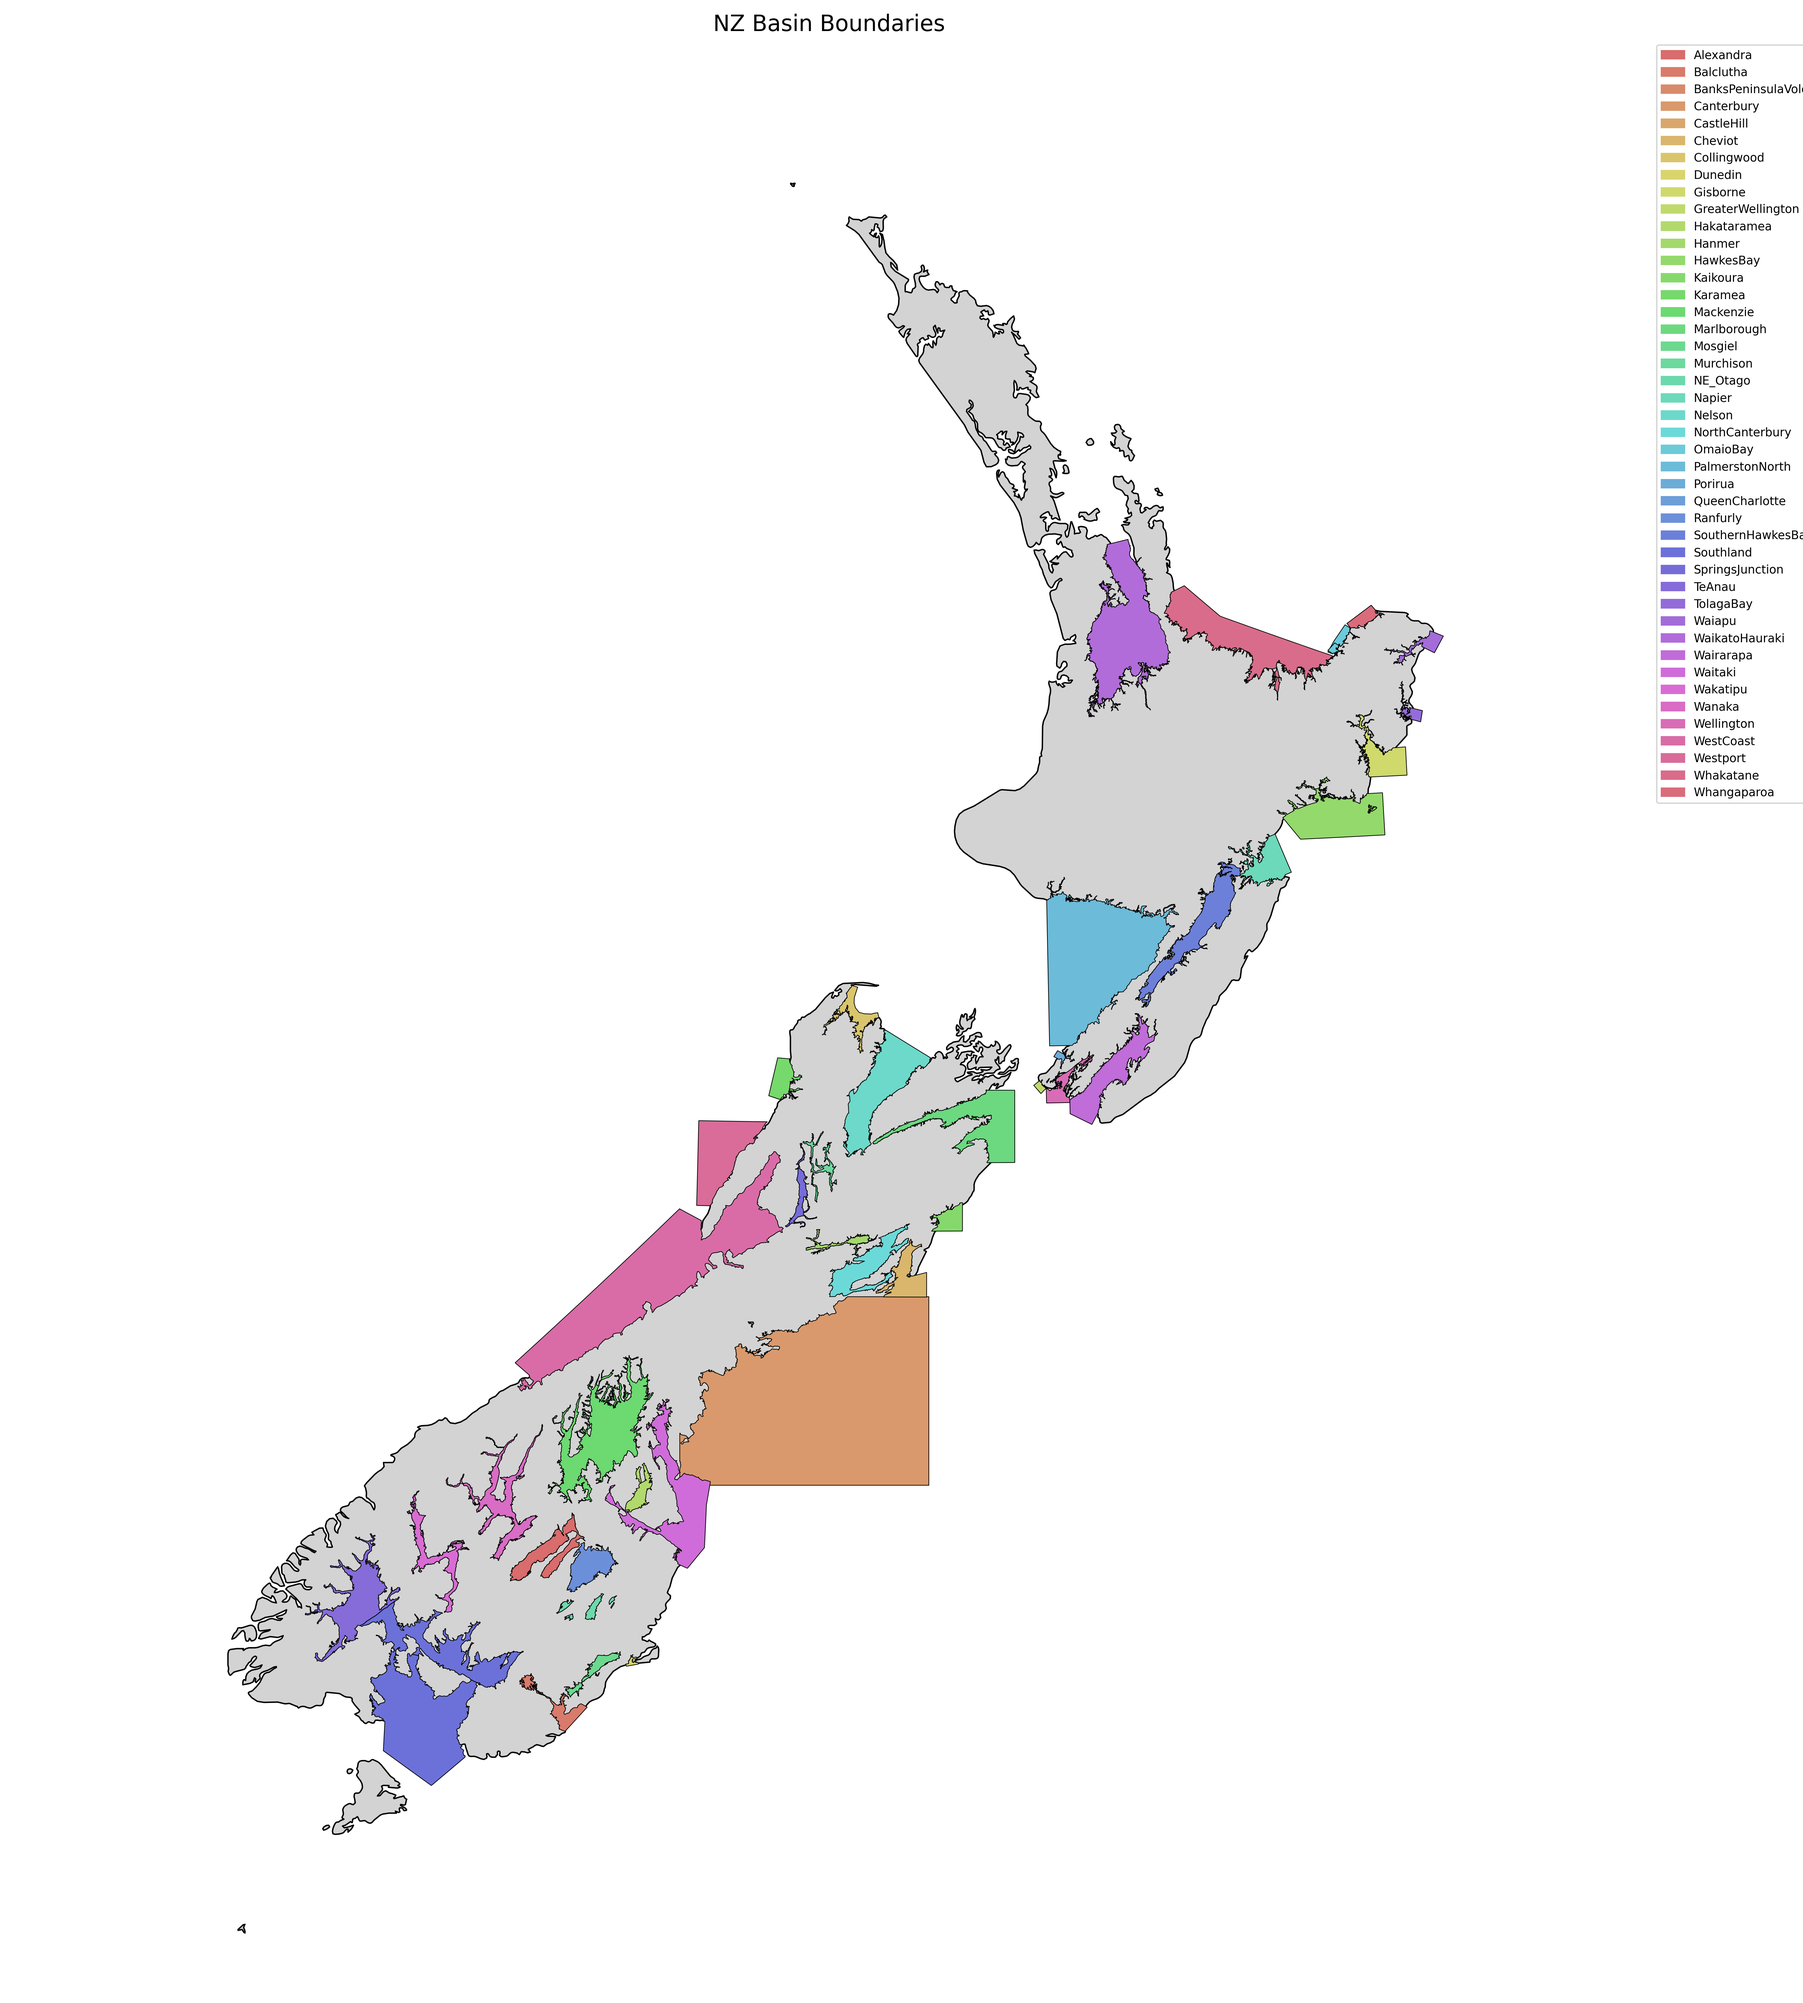
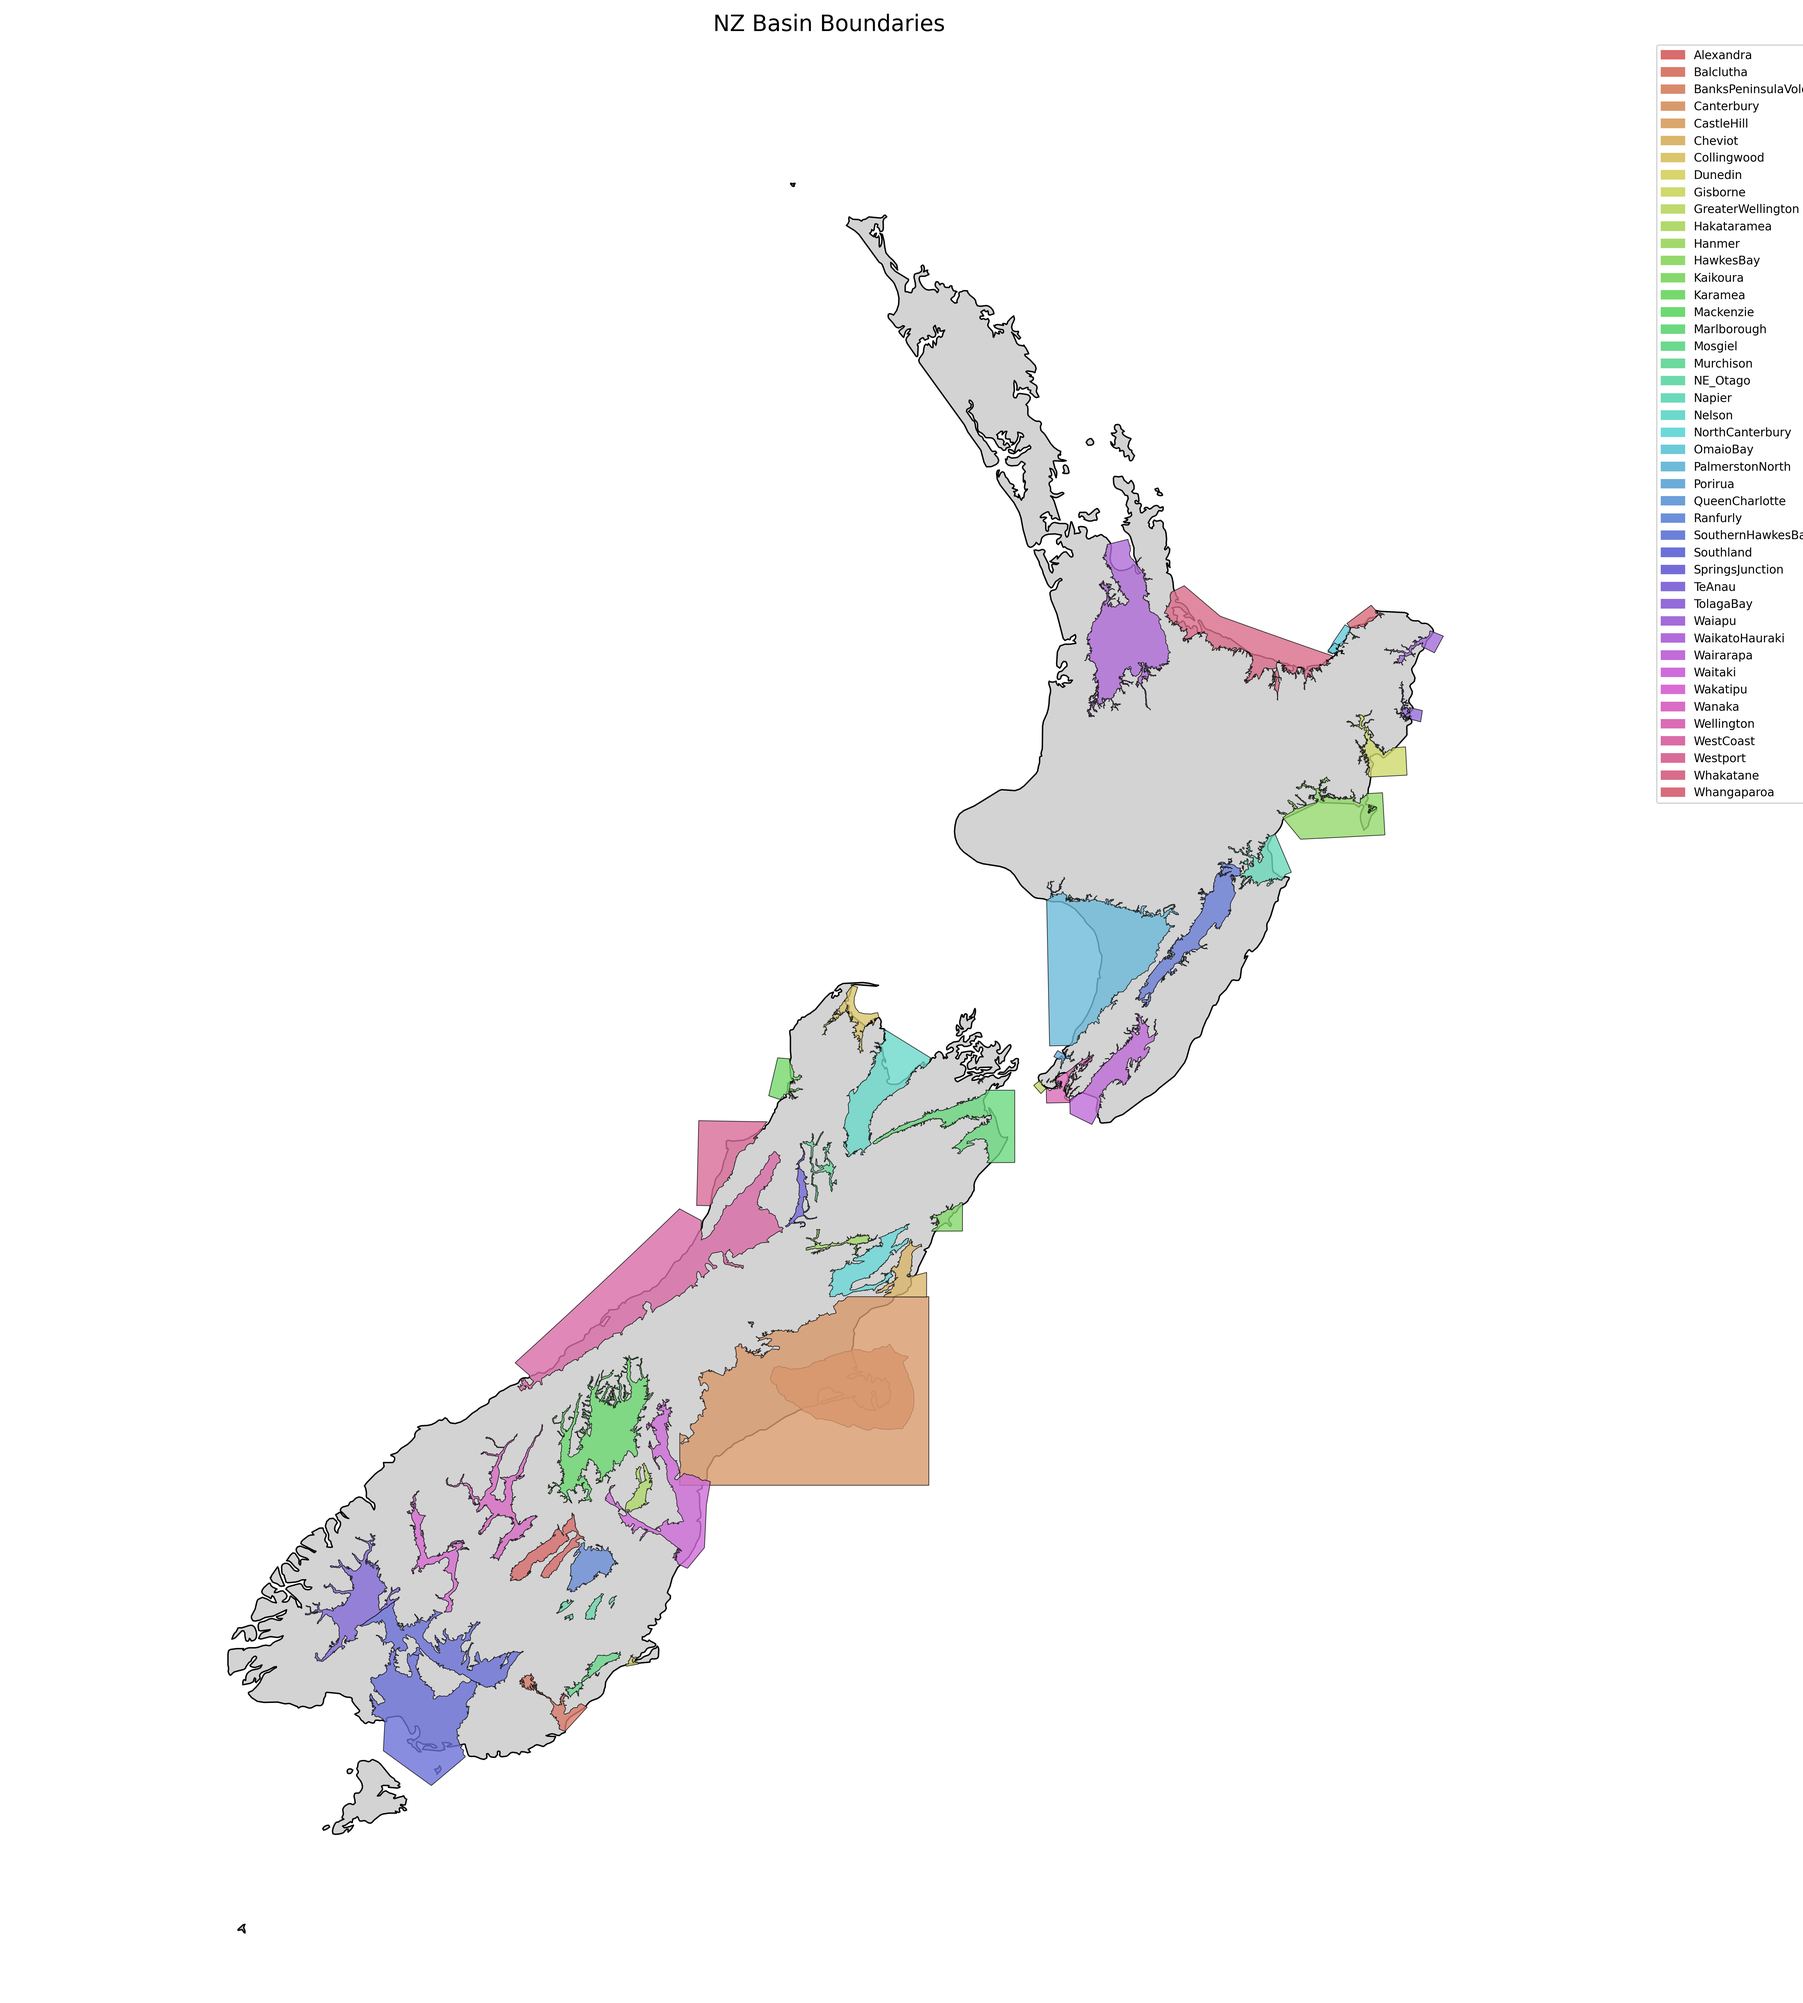
Updated all basins map

diff --git a/tools/map_all_basins.py b/tools/map_all_basins.py
@@ -207,7 +207,7 @@ def generate_basin_map(
                 if gdf.empty:
                     continue
                 gdf = gdf.to_crs("EPSG:4326")
-                gdf.plot(ax=ax, color=color, edgecolor="black", linewidth=0.5)
+                gdf.plot(ax=ax, color=color, edgecolor="black", linewidth=0.5, alpha=0.8)
                 any_valid = True
             except (fiona.errors.FionaError, ValueError) as e:
                 typer.echo(f"⚠ Error reading {geojson_path}: {e}", err=True)

diff --git a/wiki/Tomography.md b/wiki/Tomography.md
@@ -6,10 +6,10 @@ The tomography models in the NZCVM provide the background velocity structure for
 
 The NZCVM currently supports the following tomography models:
 
-
-1. EP2020: Integration of NZWide 2.2 model by Eberhart-Phillips et al. (2020). 
-2. EP2025: Integration of NZWide 3.1 model by Eberhart-Phillips et al. (2025).
-3. CHOW2020_EP2020_MIX: Combination of the CHOW2020 model (Chow 2020) in North Island and the EP2020 model for the rest
+1. EP2010: Based on New Zealand-wide model 1.0 by Eberhart-Phillips et al. (2010).
+2. EP2020: Based on NZWide 2.2 model by Eberhart-Phillips et al. (2020). 
+3. EP2025: Based on NZWide 3.1 model by Eberhart-Phillips et al. (2025).
+4. CHOW2020_EP2020_MIX: Combination of the CHOW2020 model (Chow et al. 2020) in North Island and the EP2020 model for the rest
 
 ## Tomography Model Definition
 
